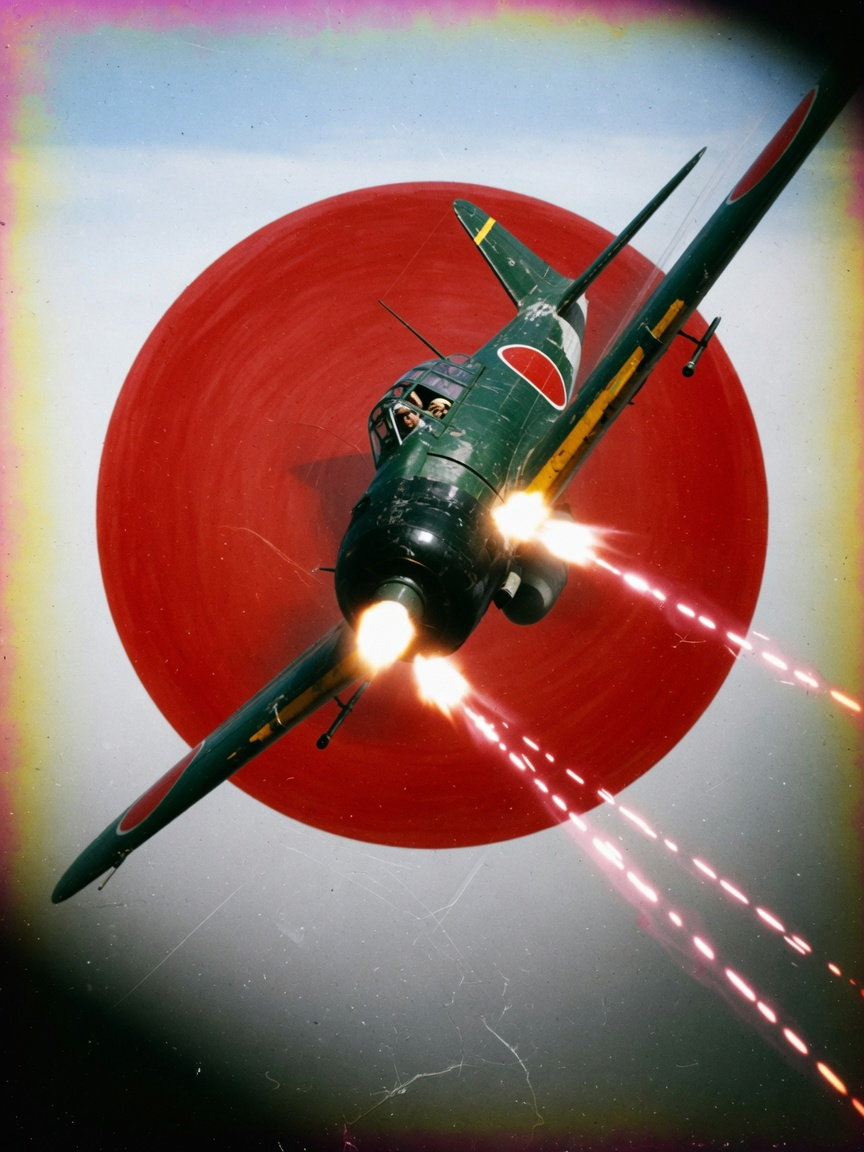
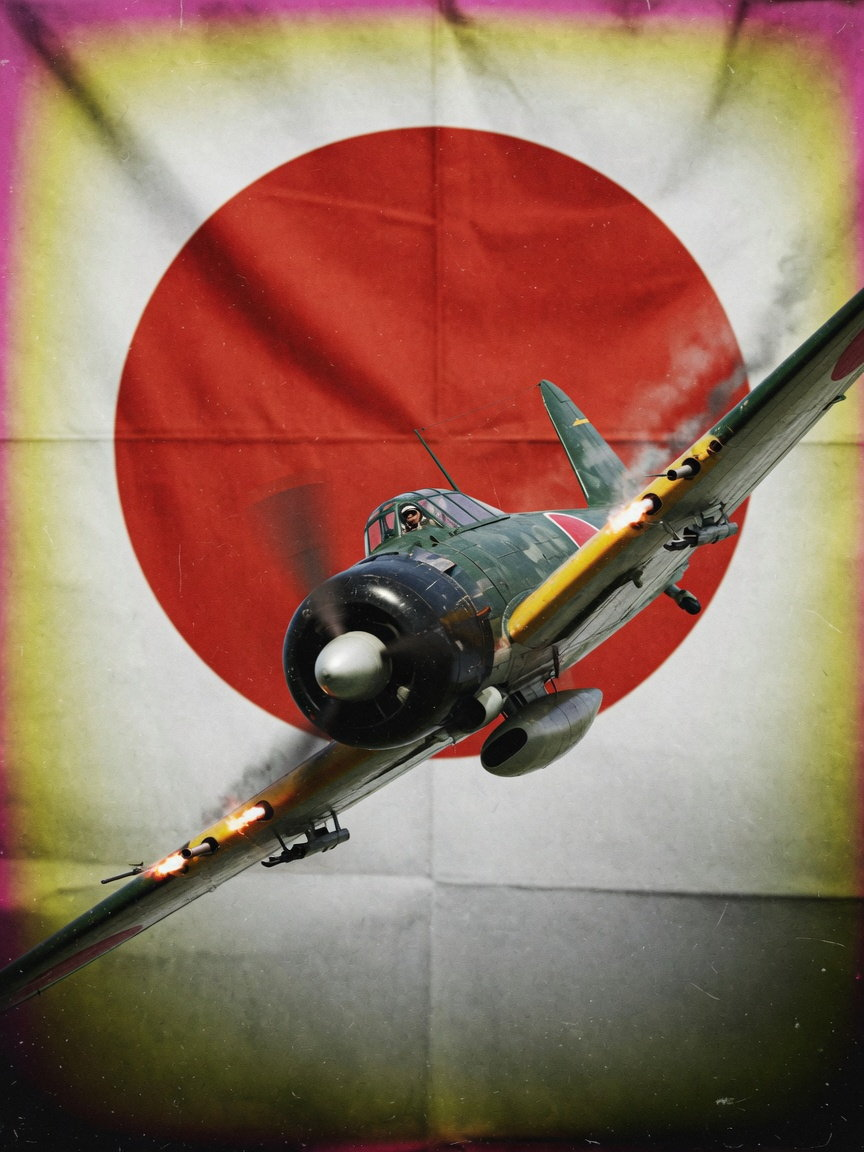
content(ui): 陣營圖只留槍焰不畫射線；B-17 的凝結尾接回發動機；hover 還 30%
負責人一眼看出兩處物理不對：

- **曳光彈的方向反了**：日本那張機頭朝左上、槍口在翼上，曳光卻整排往右下飛
  出去 —— 子彈飛向飛機的後方。裁決是陣營圖不畫射線，只畫槍焰。
- **凝結尾沒有接在發動機上**：B-17 那張的白線斜著穿過整個畫面，有幾條還從
  機頭前面長出來。提示詞改成把起點寫死：從四具發動機開始、直直往後拖、
  彼此平行且平行於航向。

第一次拿掉射線之後，槍焰變成大火球，三架看起來都像在燒。補上「每道火光不大
於槍管」與「飛機沒有起火、沒有受損」才收得住 —— 現在是槍口的小火光加一縷煙。

順帶把 hover 的顏色從 15% 調到 30%（負責人：「顏色可以再多一點 改30%」）：
`grayscale(.7) sepia(.06)`。

四張重生（mission、allies、germany、japan），skirmish 沒動。兩個坑都寫進
`docs/ui/PROMPTS.md`。

diff --git a/index.html b/index.html
@@ -71,8 +71,9 @@
       .back:hover { background: var(--btn-hi); border-color: var(--sel); }
       /* 【照片】來源不管是 Grok 生的還是引擎截的，過了這一層都是夾在卷宗裡的當年照片。
          **原檔是彩色的**（負責人 2026-09-04：「我想讓這些圖都有顏色，只是用 CSS
-         做成黑白，然後 HOVER 的時候帶出 10~20% 顏色回來」）—— 黑白是這一行做的，
-         不是圖做的；滑過去 `grayscale` 放到 .85，也就是還 15% 的顏色 */
+         做成黑白，然後 HOVER 的時候帶出顏色回來」）—— 黑白是這一行做的，不是圖
+         做的；滑過去 `grayscale` 放到 .70，也就是還 30%（負責人：「顏色可以再
+         多一點 改30%」）*/
       .photo { position: relative; overflow: hidden; background: #1b1610; display: block; }
       .photo img { display: block; width: 100%; height: 100%; object-fit: cover;
         filter: grayscale(1) sepia(.26) contrast(1.06) brightness(.92);
@@ -118,8 +119,8 @@
       .tallcard .t { margin: 0 20px; font: 700 19px/1.2 var(--f-body); }
       .tallcard .d { margin: 6px 20px 0; font-size: 12.5px; }
       .tallcard .m { margin: 12px 20px 0; padding-top: 8px; border-top: 1px solid rgba(0,0,0,.18); font-size: 11px; }
-      /* 【還 15% 的顏色】sepia 同時降下來 —— 不降的話那點顏色會被褐調吃掉 */
-      .tallcard:hover .photo img { filter: grayscale(.85) sepia(.1) contrast(1.08) brightness(1); }
+      /* 【還 30% 的顏色】sepia 同時降下來 —— 不降的話那點顏色會被褐調吃掉 */
+      .tallcard:hover .photo img { filter: grayscale(.7) sepia(.06) contrast(1.08) brightness(1); }
       #campaign .tallcard { width: 300px; }
       #campaign .tallcard .photo { height: 400px; }
 

diff --git a/docs/ui/PROMPTS.md b/docs/ui/PROMPTS.md
@@ -3,7 +3,7 @@
 **五張原檔全部是彩色的，黑白是 CSS 做的。** 負責人 2026-09-04：「我想讓這些圖都有
 顏色，只是用 CSS 做成黑白，然後 HOVER 的時候帶出 10~20% 顏色回來」——
 `index.html` 的 `.photo img` 是 `grayscale(1)`，`.tallcard:hover .photo img` 放到
-`grayscale(.85)`（還 15%），`sepia` 同時從 .26 降到 .10，不降的話那點顏色會被褐調吃掉。
+`grayscale(.70)`（還 30%），`sepia` 同時從 .26 降到 .06，不降的話那點顏色會被褐調吃掉。
 
 **構圖**：國旗（或國籍圖騰）填滿背景、前景是正在開火的飛機、低角度、主體壓滿框。
 **質感**：Kodachrome 彩色底片、高反差、深黑與過曝的高光、細顆粒、褪色紙邊。
@@ -26,11 +26,11 @@
 
 | 檔案 | 用途 | 比例 | 提示詞 |
 |---|---|---|---|
-| mission.jpg | 主選單 · 任務模式 | 3:4 | Vintage 1944 aerial photograph shot on Kodachrome colour film: a formation of B-17 Flying Fortress bombers leaving long white contrails high over Germany against a deep blue sky, shot from a nearby escort fighter. Rich saturated period colour, slightly faded, high contrast, fine film grain, scratches and dust like an archival print. No text, no lettering, no watermark. |
+| mission.jpg | 主選單 · 任務模式 | 3:4 | Vintage 1944 aerial photograph shot on Kodachrome colour film: a formation of B-17 Flying Fortress bombers flying away from the camera in the same direction, each aircraft trailing four long white condensation trails that begin exactly at its four engines and stream straight backwards behind it, all the contrails parallel to each other and to the direction of flight, receding into the distance. High altitude, deep blue sky above a hazy landscape far below. Rich saturated period colour, slightly faded, high contrast, fine film grain, scratches and dust like an archival print. No text, no lettering, no watermark. |
 | skirmish.jpg | 主選單 · 遭遇戰 | 3:4 | A single frame from 1944 WWII fighter gun camera footage shot on colour 16mm film: a Messerschmitt Bf 109 seen through the gunsight reticle, banking hard, orange tracer streaks passing it, grey-green camouflage and pale blue sky. Extremely grainy colour film, blurred motion, high contrast, dark vignette, film sprocket holes and frame counter numbers along one edge. Plain tail fin, no tail markings, no swastika. No text, no watermark. |
-| allies.jpg | 陣營頁 · 盟軍（星條旗當底） | 3:4 | 1944 wartime propaganda photograph shot on Kodachrome colour film, high contrast: a P-51D Mustang fighter filling most of the frame, diving steeply toward the viewer at a dramatic low angle, all six machine guns firing with brilliant white muzzle flashes and long tracer lines, a huge Stars and Stripes flag in bold red white and blue rippling across the entire background behind it, deep blacks and blown highlights, rich saturated period colour, fine film grain, faded edges, dust and fine scratches like an archival print, dark vignette. No text, no lettering, no watermark. |
-| germany.jpg | 陣營頁 · 德軍（鐵十字當圖騰，**不用國旗**：1944 年的德國國旗是卍字旗） | 3:4 | 1944 wartime propaganda photograph shot on Kodachrome colour film, high contrast: a Messerschmitt Bf 109 fighter filling most of the frame, charging head-on toward the viewer at a dramatic low angle, cannon and machine guns firing with brilliant white muzzle flashes and long tracer streaks, behind it a huge black Balkenkreuz (straight-armed cross with white outline) filling the entire background as a painted marking on a deep red and charcoal field. Absolutely no swastika, no eagle emblem, no flags, plain tail fin with no tail markings. Deep blacks and blown highlights, rich saturated period colour, fine film grain, faded edges, dust and fine scratches like an archival print, dark vignette. No text, no lettering, no watermark. |
-| japan.jpg | 陣營頁 · 日本（日章圓當底，**不是旭日旗**） | 3:4 | 1944 wartime propaganda photograph shot on Kodachrome colour film, high contrast: a Mitsubishi A6M5 Zero fighter filling most of the frame, climbing steeply and banking toward the viewer at a dramatic low angle, wing cannons firing with brilliant white muzzle flashes and long tracer streaks, behind it one enormous red Hinomaru sun disc on a plain white field filling the background, not the rising-sun ray flag. Deep blacks and blown highlights, rich saturated period colour, fine film grain, faded edges, dust and fine scratches like an archival print, dark vignette. No text, no lettering, no watermark. |
+| allies.jpg | 陣營頁 · 盟軍（星條旗當底） | 3:4 | 1944 wartime propaganda photograph shot on Kodachrome colour film, high contrast: a P-51D Mustang fighter filling most of the frame, diving steeply toward the viewer at a dramatic low angle, six wing machine guns firing. The gunfire is shown ONLY as small, short, sharp muzzle flashes at the gun ports themselves, each flash no bigger than the gun barrel, with a wisp of grey gun smoke. The aircraft is NOT burning and NOT damaged: no flames, no fireballs, no explosions, no engine fire. Absolutely no tracer lines, no tracer streaks, no bullet trails, no light streaks anywhere in the frame. A huge Stars and Stripes flag in bold red white and blue rippling across the entire background behind it. Deep blacks and blown highlights, rich saturated period colour, fine film grain, faded edges, dust and fine scratches like an archival print, dark vignette. No text, no lettering, no watermark. |
+| germany.jpg | 陣營頁 · 德軍（鐵十字當圖騰，**不用國旗**：1944 年的德國國旗是卍字旗） | 3:4 | 1944 wartime propaganda photograph shot on Kodachrome colour film, high contrast: a Messerschmitt Bf 109 fighter filling most of the frame, charging head-on toward the viewer at a dramatic low angle, nose cannon and wing machine guns firing. The gunfire is shown ONLY as small, short, sharp muzzle flashes at the gun ports themselves, each flash no bigger than the gun barrel, with a wisp of grey gun smoke. The aircraft is NOT burning and NOT damaged: no flames, no fireballs, no explosions, no engine fire. Absolutely no tracer lines, no tracer streaks, no bullet trails, no light streaks anywhere in the frame. Behind it a huge black Balkenkreuz (straight-armed cross with white outline) filling the entire background as a painted marking on a deep red and charcoal field. Absolutely no swastika, no eagle emblem, no flags, plain tail fin with no tail markings. Deep blacks and blown highlights, rich saturated period colour, fine film grain, faded edges, dust and fine scratches like an archival print, dark vignette. No text, no lettering, no watermark. |
+| japan.jpg | 陣營頁 · 日本（日章圓當底，**不是旭日旗**） | 3:4 | 1944 wartime propaganda photograph shot on Kodachrome colour film, high contrast: a Mitsubishi A6M5 Zero fighter filling most of the frame, climbing steeply and banking toward the viewer at a dramatic low angle, wing cannons firing. The gunfire is shown ONLY as small, short, sharp muzzle flashes at the gun ports themselves, each flash no bigger than the gun barrel, with a wisp of grey gun smoke. The aircraft is NOT burning and NOT damaged: no flames, no fireballs, no explosions, no engine fire. Absolutely no tracer lines, no tracer streaks, no bullet trails, no light streaks anywhere in the frame. Behind it one enormous red Hinomaru sun disc on a plain white field filling the background, not the rising-sun ray flag. Deep blacks and blown highlights, rich saturated period colour, fine film grain, faded edges, dust and fine scratches like an archival print, dark vignette. No text, no lettering, no watermark. |
 
 跑法：`grok -p "<中文指令，內含上面的英文提示詞，指定存檔路徑>" --permission-mode bypassPermissions --no-subagents --max-turns 6`
 一張約 40 秒，864×1152 或 1152×864。正式版要出 2× 並改成 landscape 3:2。
@@ -55,3 +55,19 @@ python -c "from PIL import Image;import glob;[Image.open(p).convert('RGB').save(
 如果哪天又要純黑白的原檔，提示詞要帶
 `entirely black and white monochrome, absolutely no colour anywhere, no selective colour effect`。
 
+
+## 【踩過的坑】模型畫不對「彈道」與「凝結尾」
+
+負責人 2026-09-04 一眼看出兩處物理不對：
+
+- **曳光彈的方向反了**：日本那張機頭朝左上、槍口在翼上，曳光卻整排往右下飛出去 ——
+  子彈飛向飛機的後方。裁決：**陣營圖不畫射線，只畫槍焰**
+  （「陣營的開火只畫出槍焰 不要畫射線」）。
+- **凝結尾沒有接在發動機上**：B-17 那張的白線斜著穿過整個畫面，有幾條還從機頭前面
+  長出來。修法是把「從哪裡開始」寫死：`begin exactly at its four engines and stream
+  straight backwards behind it, all the contrails parallel to each other and to the
+  direction of flight`。
+
+第一次拿掉射線之後槍焰變成大火球，看起來像飛機在燒。再加一句
+`each flash no bigger than the gun barrel` ＋ `the aircraft is NOT burning and NOT
+damaged: no flames, no fireballs, no explosions` 才收得住。
